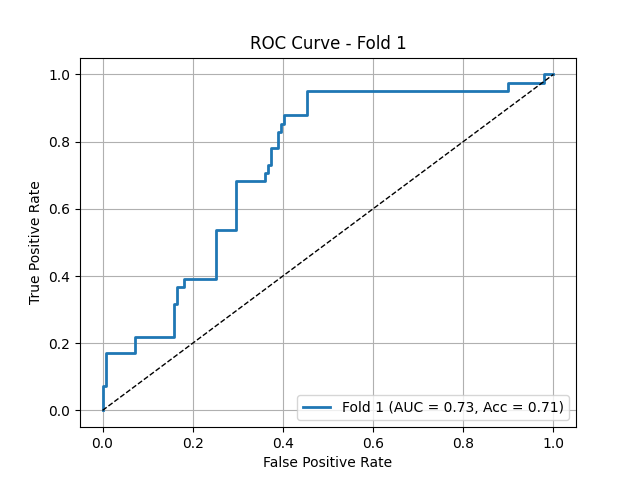
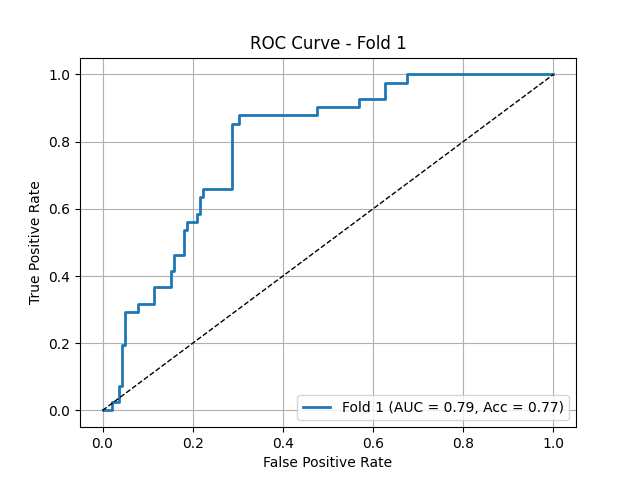
score weight further reduced to 0.005

diff --git a/multi_head_models.py b/multi_head_models.py
@@ -344,9 +344,9 @@ class BinaryClassification(pl.LightningModule):
             x, y = batch 
             y2 = y.unsqueeze(-1).repeat((1, self.output_size)).squeeze()
             scores, scores_tail = self.forward(x)  
-            loss = self.loss_fn(scores, y.float())*0.2 + self.loss_fn(scores_tail[0], y2.float())*0.1 + \
+            loss = self.loss_fn(scores, y.float())*0.005 + self.loss_fn(scores_tail[0], y2.float())*0.1 + \
                         self.loss_fn(scores_tail[1], y2.float()) + self.loss_fn(scores_tail[2], y2.float()) + self.loss_fn(scores_tail[3], y2.float()) +\
-                        self.loss_fn2(scores, y.float())*0.2 + self.loss_fn2(scores_tail[0], y2.float())*0.1 + \
+                        self.loss_fn2(scores, y.float())*0.005 + self.loss_fn2(scores_tail[0], y2.float())*0.1 + \
                         self.loss_fn2(scores_tail[1], y2.float()) + self.loss_fn2(scores_tail[2], y2.float()) + self.loss_fn2(scores_tail[3], y2.float())
             
         else: 

diff --git a/train_washu2_classifier_multihead.py b/train_washu2_classifier_multihead.py
@@ -27,7 +27,7 @@ min_epochs = 1
 batch_size = 32
 check_val_every_n_epoch = 3
 num_workers = 0
-k_fold = 10
+k_fold = 5
 
 try: 
     # Get the latest Git commit message
